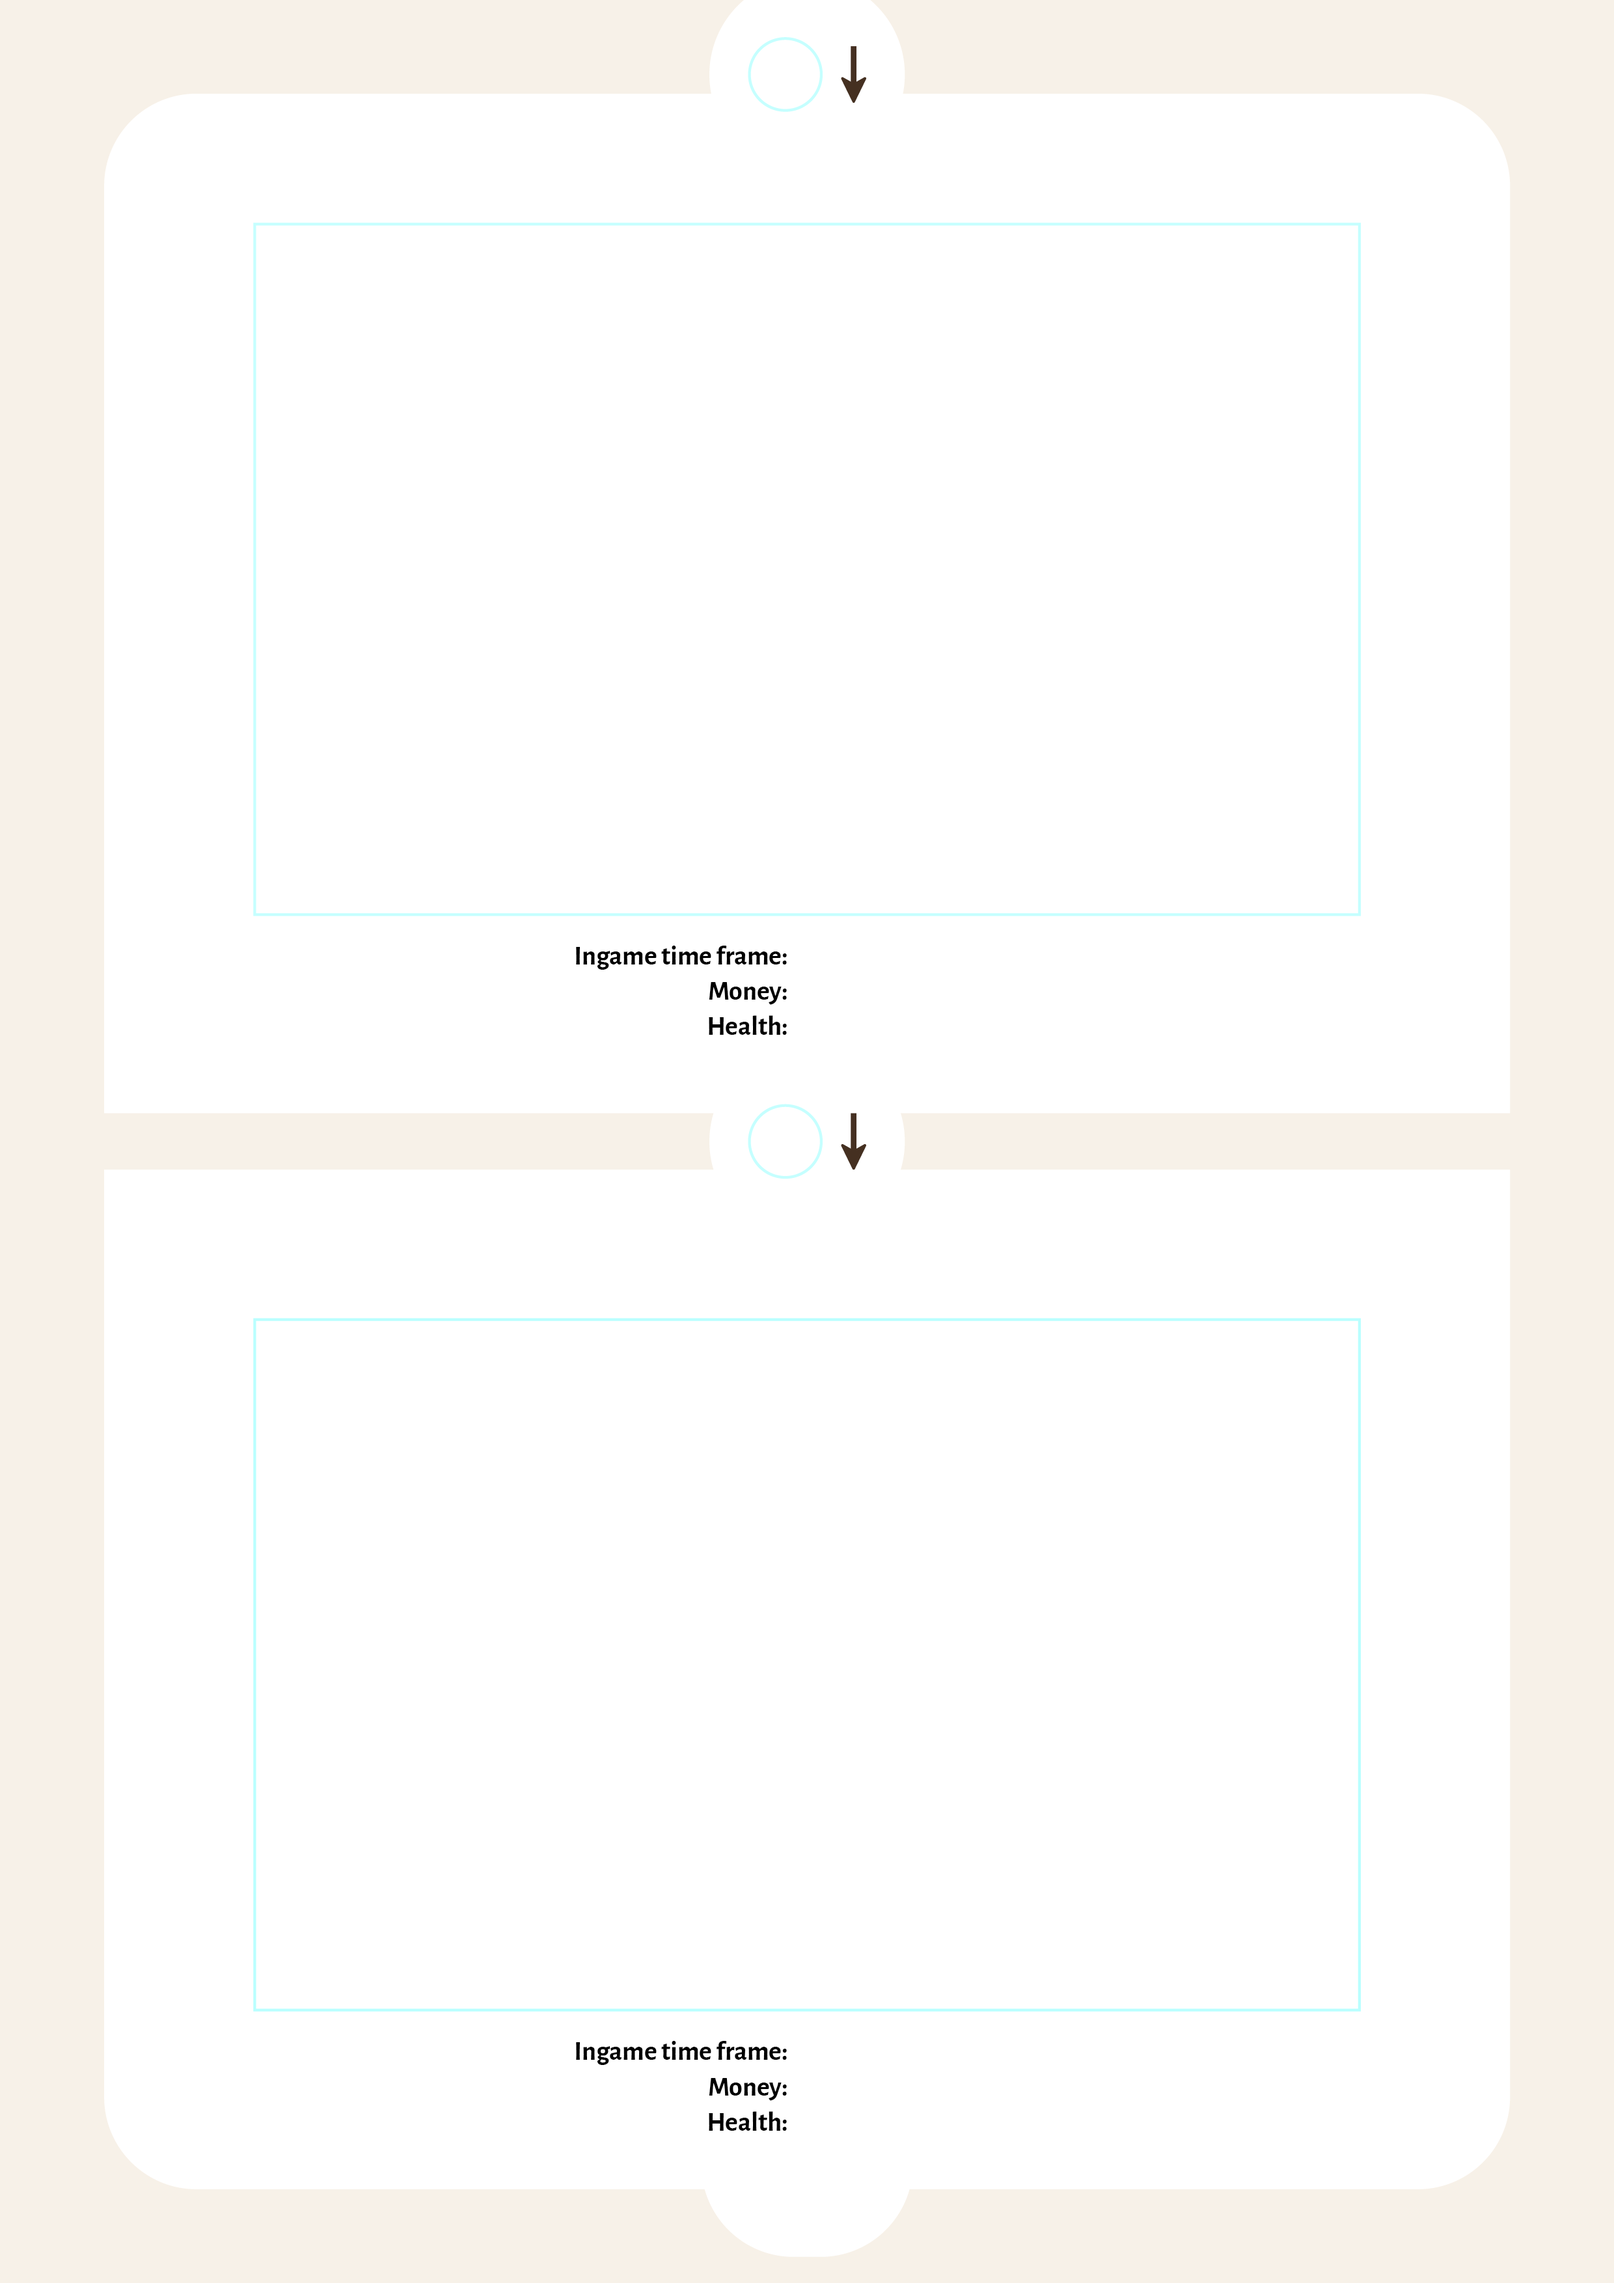
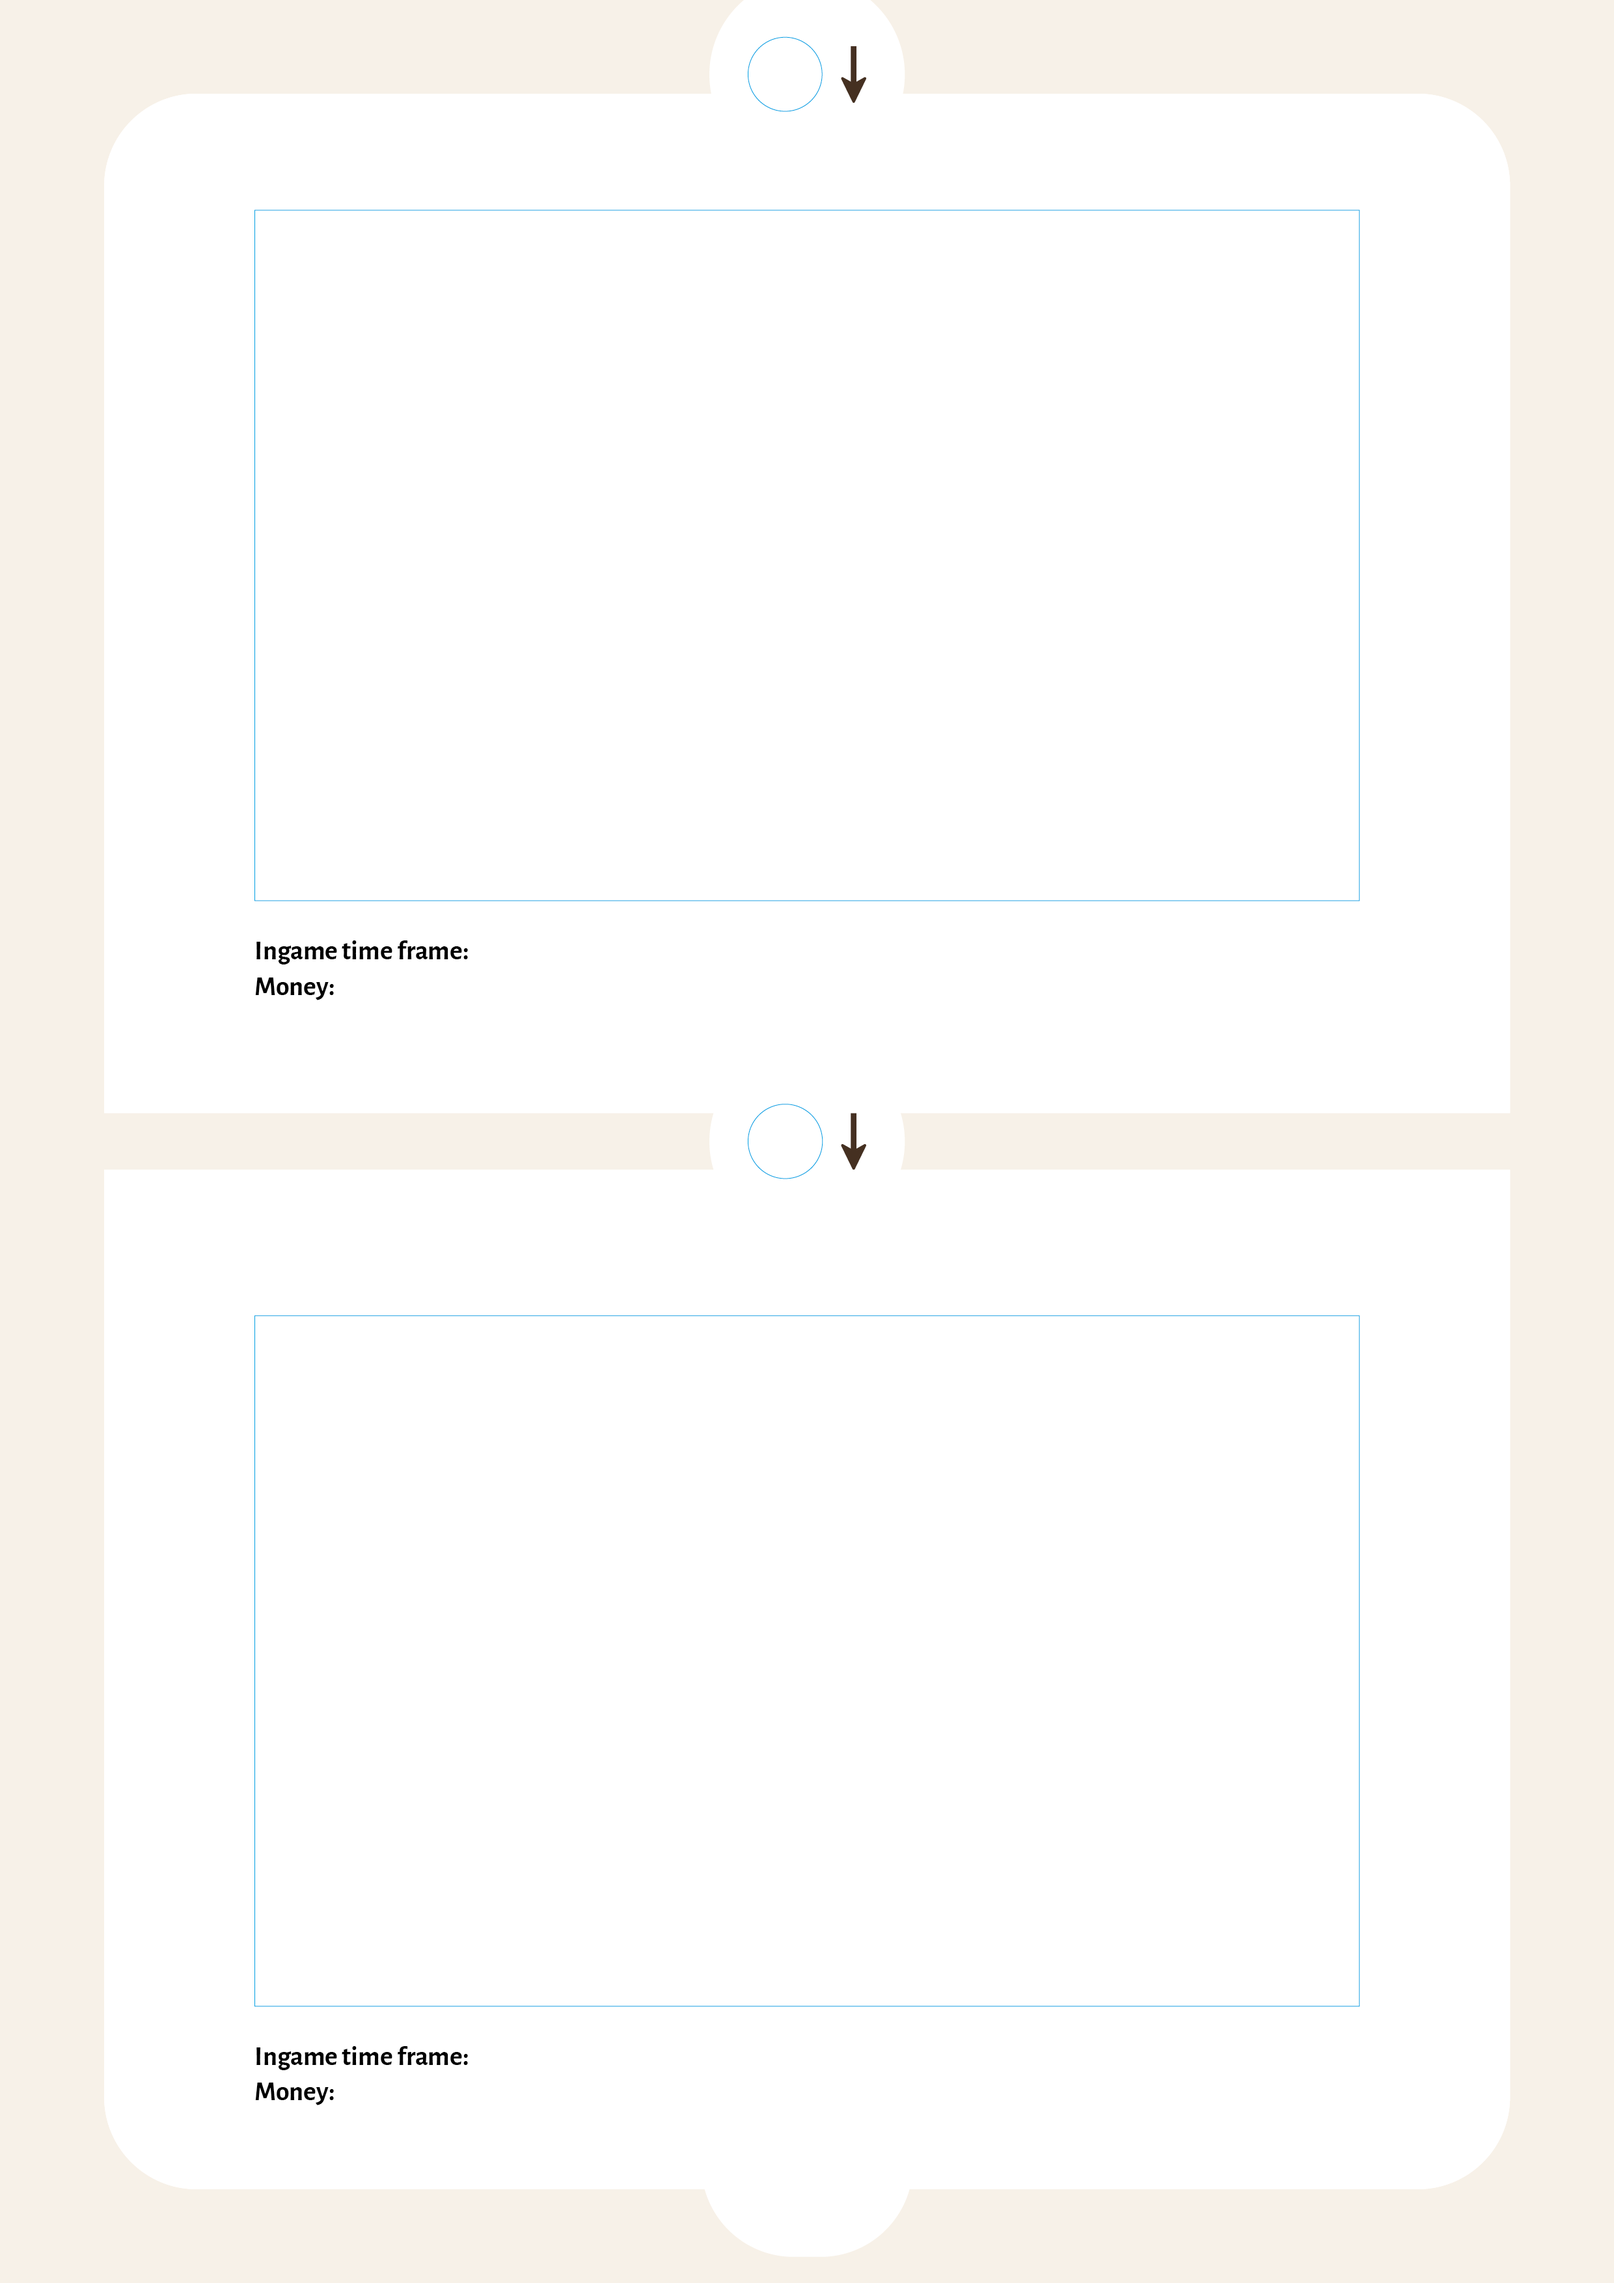
Updated backgrounds and multiple health statuses

diff --git a/Assets/Scripts/PDF/PDFBuilder.cs b/Assets/Scripts/PDF/PDFBuilder.cs
@@ -354,17 +354,20 @@ public class PDFBuilder
             if(top)
             {
                 pdf.AddPage();
-                pdf.DrawPNG(i == 0 ? "PDF/PDF_Background_3.png" : "PDF/PDF_Background_3.2.png", 0, 0, pdf.PageWidth, pdf.PageHeight);
+                string background = i == journeys.Length - 1 ?
+                    (i == 0 ? "PDF/PDF_Background_3.png" : "PDF/PDF_Background_3.3.png") :
+                    (i == 0 ? "PDF/PDF_Background_3.1.png" : "PDF/PDF_Background_3.2.png");
+                pdf.DrawPNG(background, 0, 0, pdf.PageWidth, pdf.PageHeight);
                 DrawPageNumber(pdf, ++pageNumber);
             }
 
             // City Name
             pdf.FontSize = 15;
             string cityName = $"{i + 1}. {journeys[i].destination}";
-            pdf.DrawText(cityName, 94, top ? 56 : 460);
+            pdf.DrawText(cityName, 94, top ? 49 : 457);
 
             // Screenshot
-            pdf.DrawPNG("Screenshot.png", 94, top ? 82 : 486, 407, 255);
+            pdf.DrawPNG("Screenshot.png", 94, top ? 77 : 485, 407, 255);
 
             // Transport icon
             if(i > 0)
@@ -383,12 +386,21 @@ public class PDFBuilder
 
             // Status
             pdf.FontSize = 10;
+            int row0Y = top ? 347 : 751;
+            int row1Y = top ? 361 : 765;
+            int row2Y = top ? 372 : 776;
             // Ingame time frame.
-            pdf.DrawText("02:03:02", 305, top ? 347 : 751);
+            pdf.DrawText("02:03:02", 187, row0Y);
             // Money
-            pdf.DrawText($"{journeys[i].money} LUF", 305, top ? 361 : 765);
+            pdf.DrawText($"{journeys[i].money} LUF", 187, row1Y);
+            // Names
+            pdf.DrawText("Elis Beffort:", 297, row0Y);
+            pdf.DrawText("Mreis Beffort:", 297, row1Y);
+            pdf.DrawText("Matti Beffort:", 297, row2Y);
             // Health
-            pdf.DrawText("Healthy", 305, top ? 372 : 776);
+            pdf.DrawText("healthy", 392, row0Y);
+            pdf.DrawText("bad mental health", 392, row1Y);
+            pdf.DrawText("malnourished", 392, row2Y);
         }
     }
 
